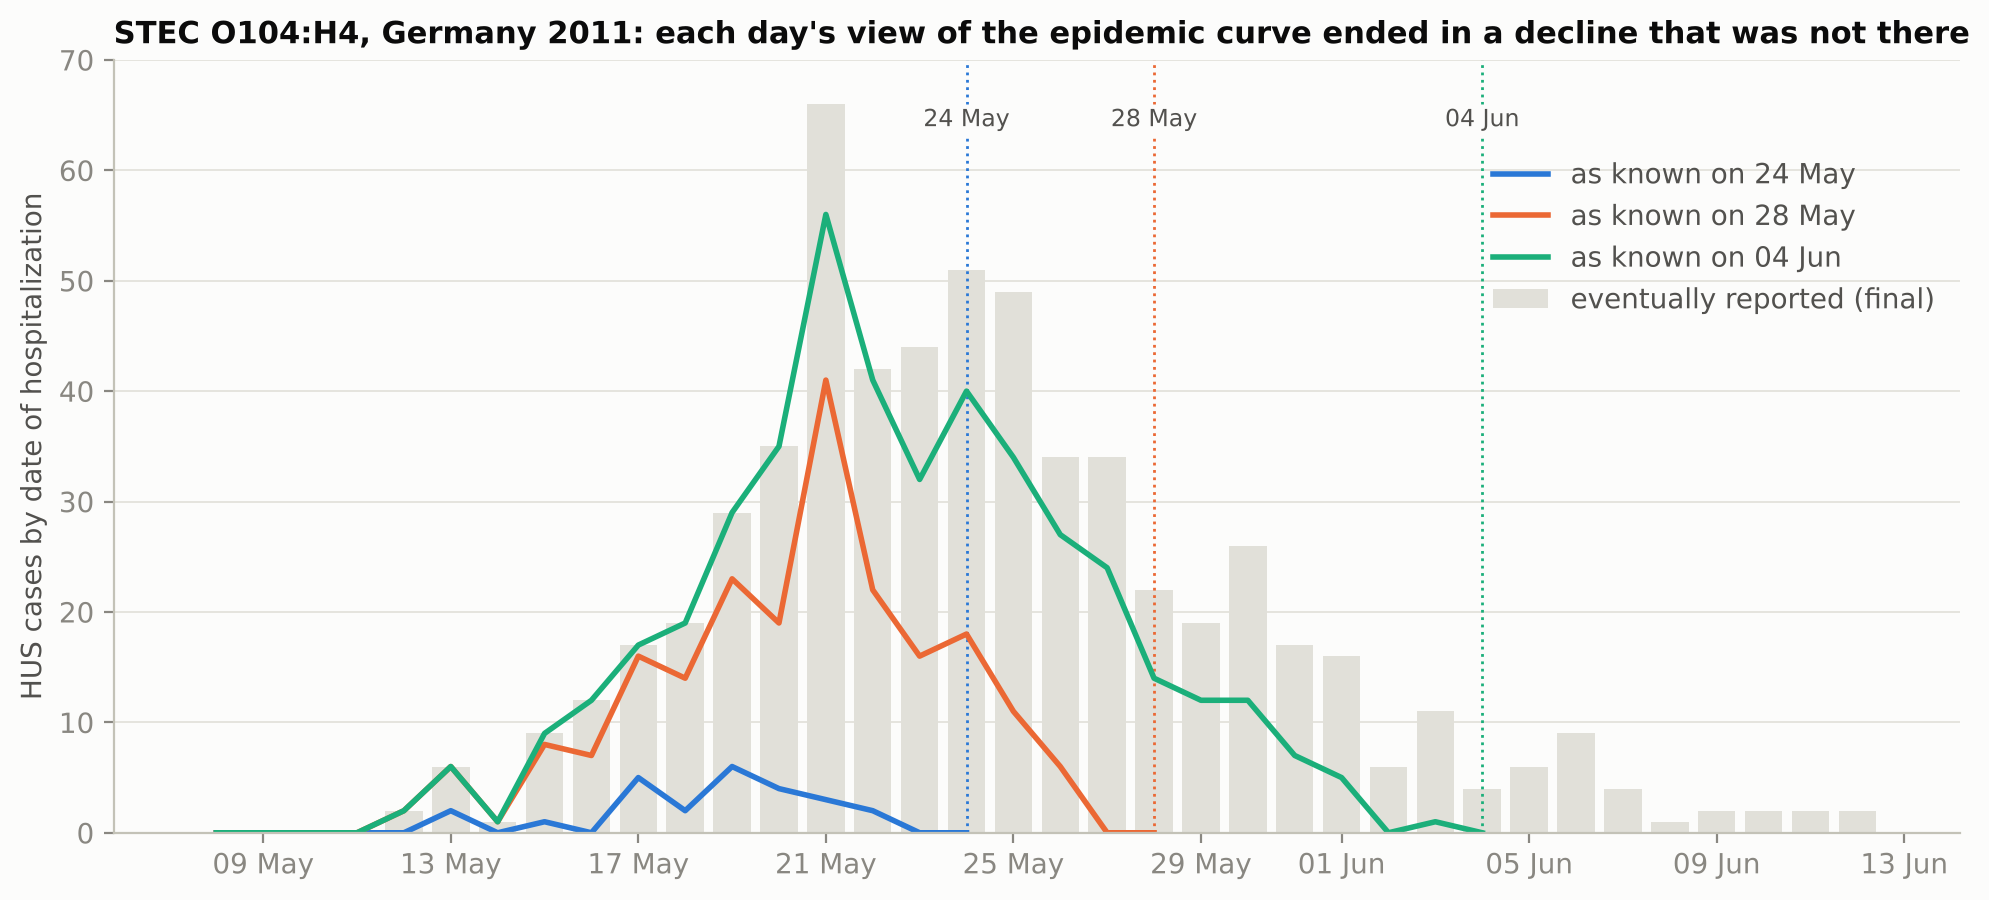
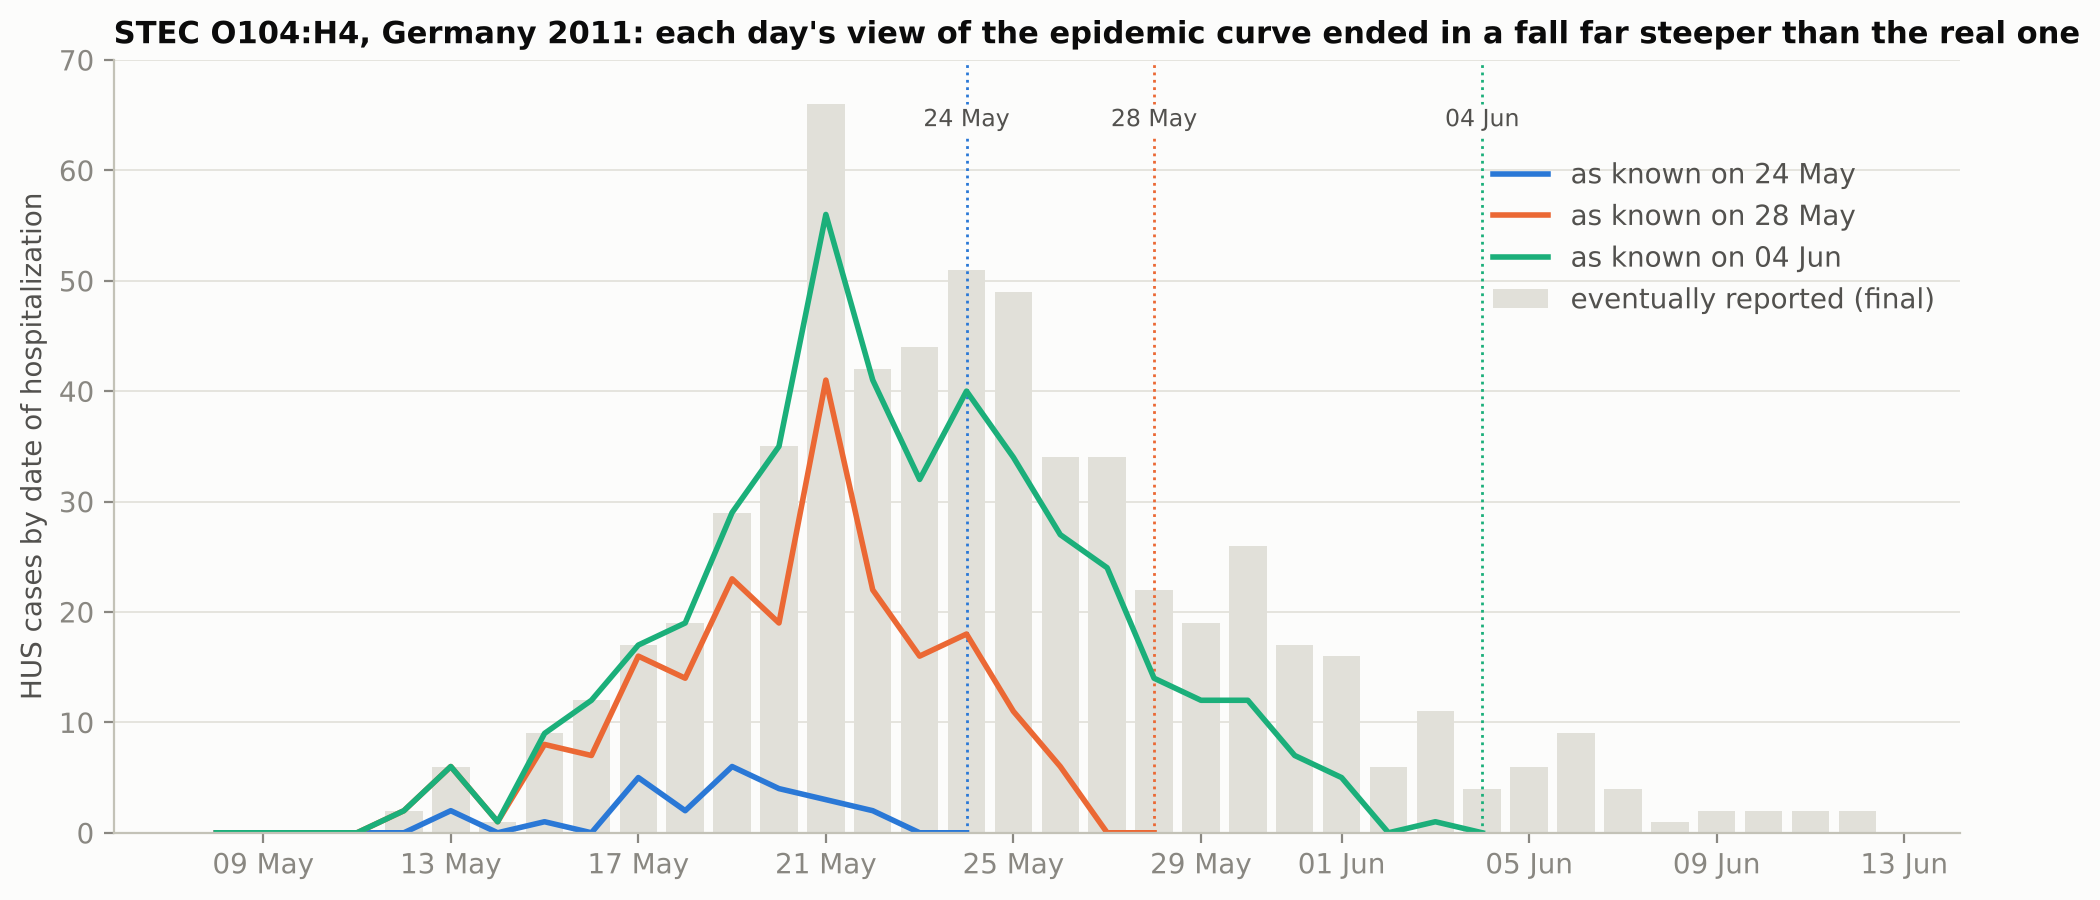
Reword the Figure 2 title

diff --git a/pipeline-time-correctness/part1/figures.py b/pipeline-time-correctness/part1/figures.py
@@ -106,7 +106,7 @@ def fig2_vintages() -> None:
         ax.annotate(f"{D:%d %b}", (D, 64), color=INK2, fontsize=8.5, ha="center",
                     bbox=dict(boxstyle="round,pad=0.15", facecolor=SURFACE, edgecolor="none"))
     ax.set_ylabel("HUS cases by date of hospitalization")
-    ax.set_title("STEC O104:H4, Germany 2011: each day's view of the epidemic curve ended in a decline that was not there")
+    ax.set_title("STEC O104:H4, Germany 2011: each day's view of the epidemic curve ended in a fall far steeper than the real one")
     ax.xaxis.set_major_formatter(mdates.DateFormatter("%d %b"))
     ax.legend(loc="upper right", bbox_to_anchor=(1.0, 0.9))
     ax.set_ylim(0, 70)
